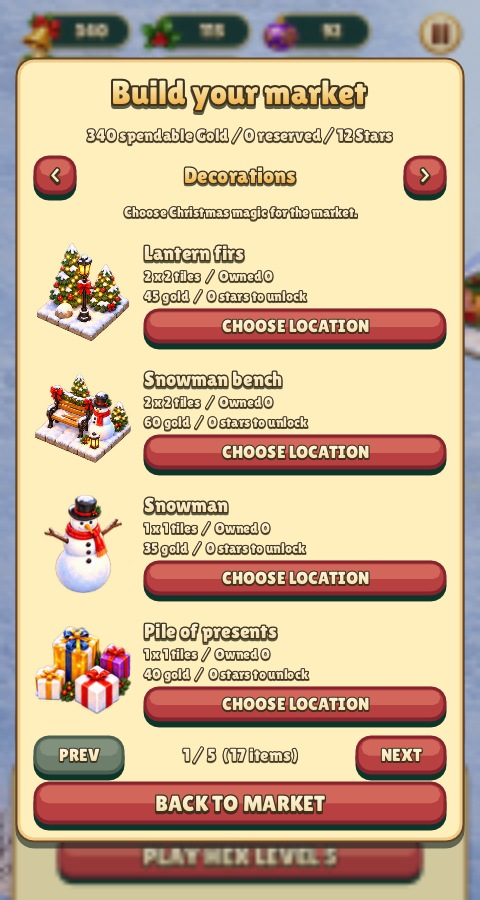
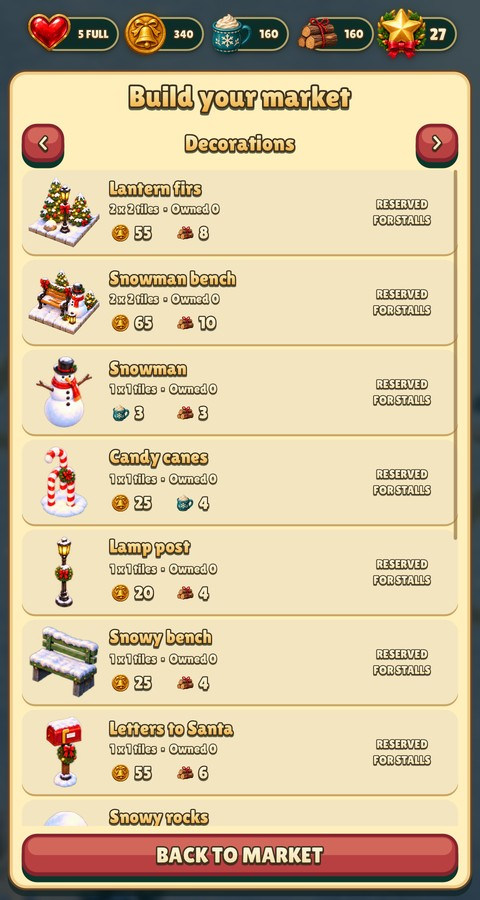
Shop and level list: full-screen sheets, one entry per row
The build shop lists one building per row with its art, what it unlocks,
its whole price and a BUILD button or the reason it waits. An amount the
wallet cannot cover uses the skin's new "short" text style. Built
buildings keep their art on a shorter ticked row. The level list uses the
same rows: number, name, what a win brings and the action.

Both open under the wallet row and fill the safe screen: a modal's bounds
may now be a function of the screen. Relic Rush and Christmas Market
share the templates.

diff --git a/games/relic-rush/README.md b/games/relic-rush/README.md
@@ -19,7 +19,7 @@ add no feedback. See the [shared haptics contract](../../docs/HAPTICS.md).
 
 ## Island navigation and resources
 
-Buildings is the large workshop/hammer image at bottom left, Play the large right-pointing image at bottom right, and Expeditions the smaller compass beside Buildings. These bottom actions have no text captions. The larger top-right gear opens Settings. Resource icons protrude beyond their counter bars for readability. Expeditions and the building catalogue are continuous measured scrolling lists with bounded inertia; the building catalogue keeps its category selectors. Keyboard focus reveals its item and mouse wheels scroll the same viewport. The two lists share templates with Christmas Market and lay out only the rows in view.
+Buildings is the large workshop/hammer image at bottom left, Play the large right-pointing image at bottom right, and Expeditions the smaller compass beside Buildings. These bottom actions have no text captions. The larger top-right gear opens Settings. Resource icons protrude beyond their counter bars for readability. Expeditions and the building catalogue are full-screen sheets under the wallet row: continuous measured scrolling lists with bounded inertia, one entry per row. A building's row shows its art, what it unlocks, its whole price in Coins, Supplies and Food (an amount the wallet cannot cover is red) and a BUILD button or the reason it waits; restored buildings keep their art on a shorter ticked row. An expedition's row shows its number, name, what a win brings and PLAY, REPLAY or RESUME. The building catalogue keeps its category selectors. Keyboard focus reveals its item and mouse wheels scroll the same viewport. The two lists share templates with Christmas Market and lay out only the rows in view.
 
 The top wallet shows Coins, Supplies and Food on both screens. Matches
 preview in the wallet during an expedition and bank after a successful clear.

diff --git a/docs/UI_ENGINE.md b/docs/UI_ENGINE.md
@@ -474,10 +474,14 @@ record, or `form:scroll_to(id)` to reset to the top on a category change.
 `node.scroll_state.offset` and `node.scroll_max` expose the measured position
 for integration checks.
 
-Relic Rush and Christmas Market share `match3.catalogue_form` (building icons in
-rows of four: one record per row, each tile a flat `pick1`-`pick4` button over a
-painted icon; a footer explains the tapped tile) and `match3.expedition_form` (one
-slim row per level, the whole row the `play` button). Nile Archive uses the same list contract with wider
+Relic Rush and Christmas Market share `match3.catalogue_form` (one building per
+row, the whole row a flat `pick` button over its painted art, name, price and
+action; a record marked `slim` takes a short row) and `match3.expedition_form` (one
+row per level, the whole row the `play` button). Both open as full-screen sheets
+under the wallet row: a modal's `bounds` option may be a function of the screen,
+called every frame, and a `list` with `grow` takes the height the sheet leaves.
+A price the wallet cannot cover is drawn in the skin's `short` text style, and
+row actions use the skin's `button`. Nile Archive uses the same list contract with wider
 templates for its build tray and chapter browser.
 
 The engine animation clock supplies one timeline to shared tweens, scroll deceleration and painting. On iOS it reads the host clock with `CACurrentMediaTime()`. UIKit's display link stops driving game frames while the app is inactive. The first frame after a long gap advances by one 60 Hz step, so a board in the middle of a move can finish settling when play resumes. Other platforms keep using `axGetMilliseconds()`.

diff --git a/games/christmas-market/README.md b/games/christmas-market/README.md
@@ -98,7 +98,9 @@ flakes still.
 `make run-christmas-market` launches the native draft. `--showcase` previews the ten buildings; `--level 4` previews a Christmas puzzle. It has an independent `christmas-market` save namespace. The draft opens on the snowy market and has thirty puzzles in three story episodes, funded construction, player-chosen placement, land expansion, a resource shop and Noelle's dialogue. Native macOS and iOS project files are included.
 
 The build shop and Winter Wishes scroll continuously. Swipe inside either list or
-use the mouse wheel. The shop shows three cards per row and keeps its category
+use the mouse wheel. Both are full-screen sheets under the wallet row. The shop
+lists one building per row with its whole price, an amount you cannot yet cover
+in red, and a BUILD button or the reason it waits; it keeps its category
 arrows. Winter Wishes opens near the current puzzle. Both screens share row
 templates with Relic Rush.
 

diff --git a/games/relic-rush/docs/screenshots/review/ledger-lists/README.md b/games/relic-rush/docs/screenshots/review/ledger-lists/README.md
@@ -1,0 +1,17 @@
+# Full-screen ledger lists
+
+The build shop and the expedition list are full-screen sheets under the wallet
+row, one entry per row. A building's row shows its whole price; an amount the
+wallet cannot cover is red. Christmas Market shares the same templates.
+
+| Screen | Before | After |
+| --- | --- | --- |
+| Shop, 480×900 | ![Before](shop-before.jpg) | ![After](shop-after.jpg) |
+| Shop, 390×844 | ![Before](shop-phone-before.jpg) | ![After](shop-phone-after.jpg) |
+| Expeditions, 480×900 | ![Before](levels-before.jpg) | ![After](levels-after.jpg) |
+| Expeditions, 390×844 | ![Before](levels-phone-before.jpg) | ![After](levels-phone-after.jpg) |
+
+```sh
+./build/relic-rush --headless --mute --fresh --size 480x900 --catalogue wonder --shot shop.png
+./build/relic-rush --headless --mute --fresh --size 390x844 --safe-area 0,47,0,34 --expeditions --shot levels-phone.png
+```
